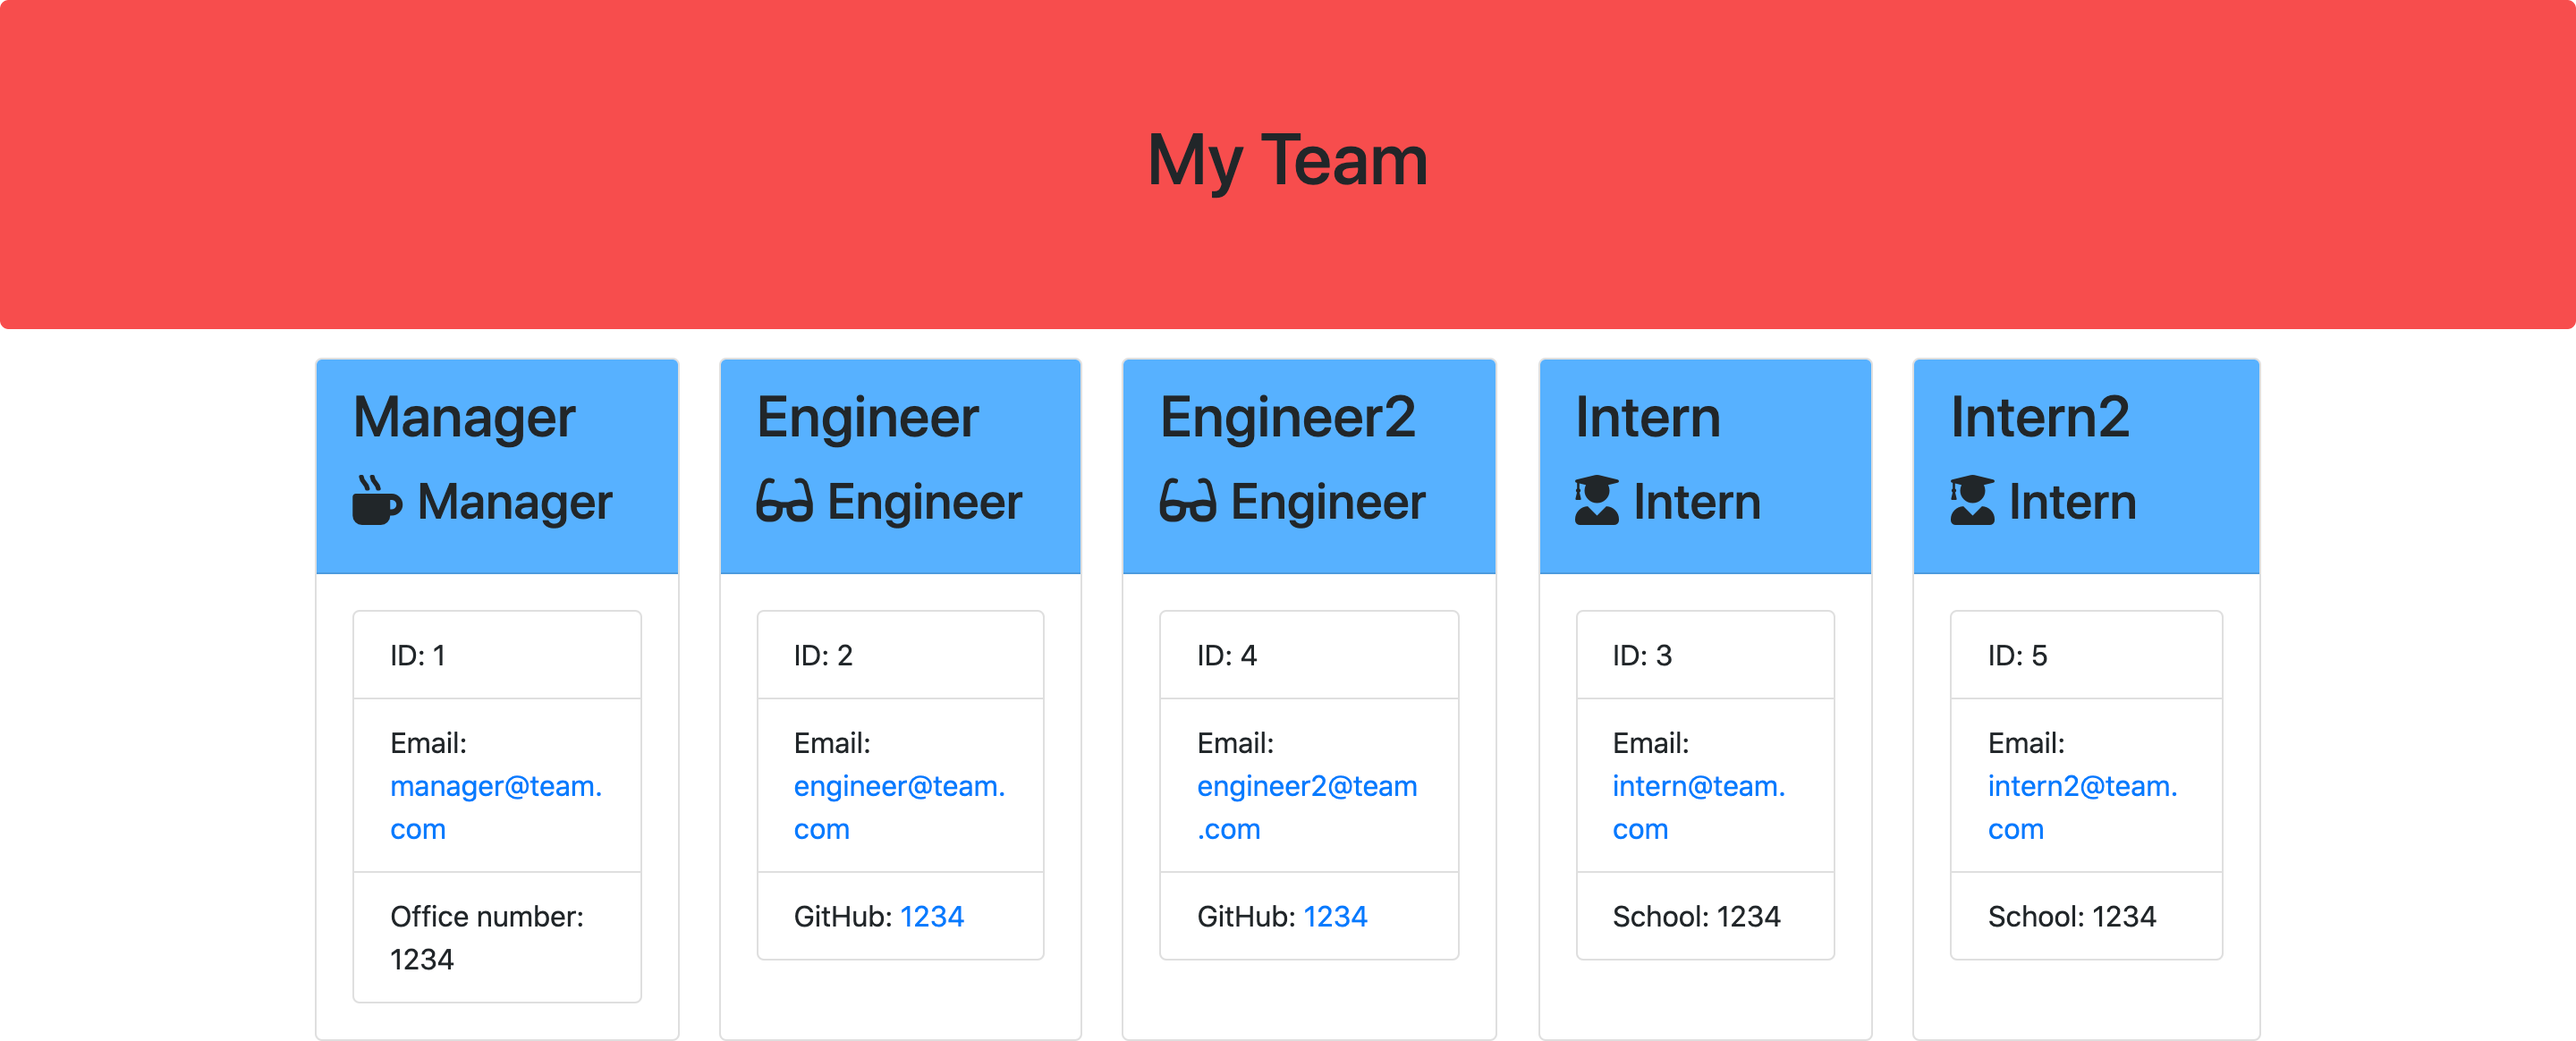
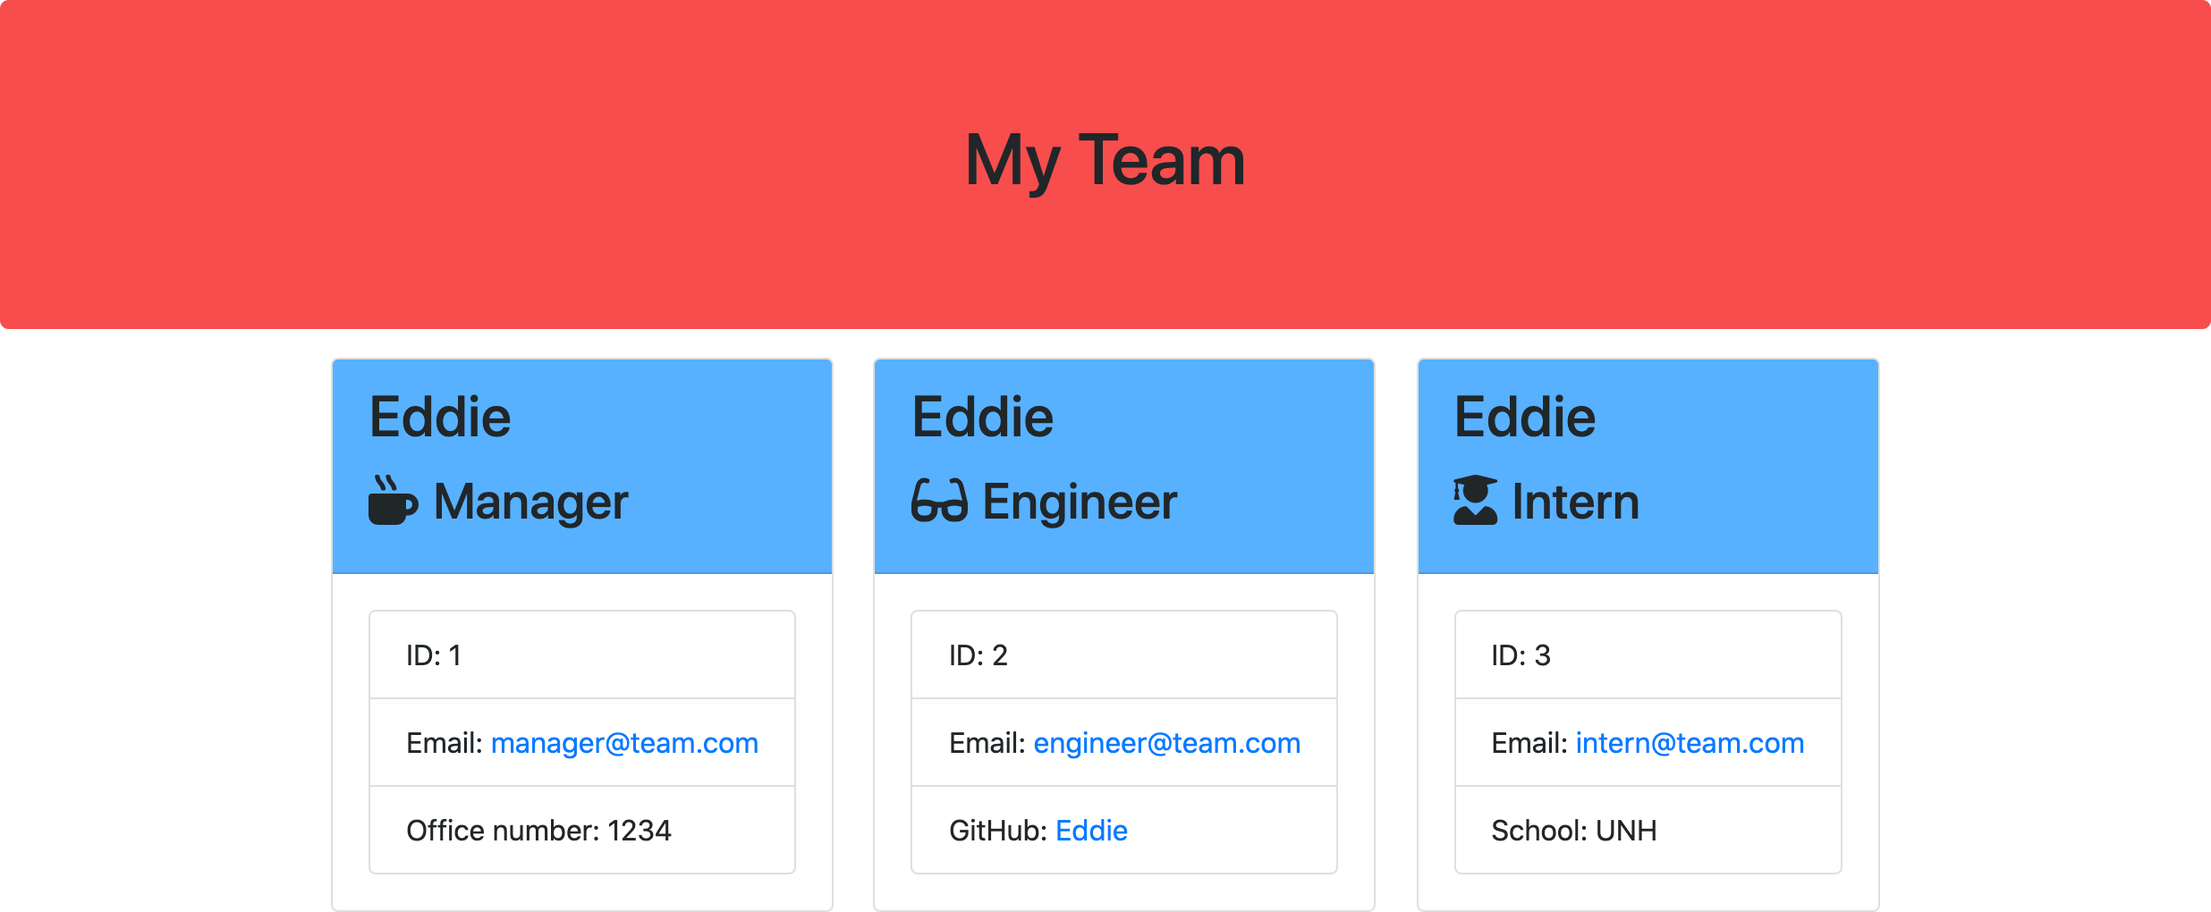
added video demo, adjusted README

diff --git a/develop/output/team.html b/develop/output/team.html
@@ -1,0 +1,71 @@
+<!DOCTYPE html>
+<html lang="en">
+
+<head>
+    <meta charset="UTF-8" />
+    <meta name="viewport" content="width=device-width, initial-scale=1.0" />
+    <meta http-equiv="X-UA-Compatible" content="ie=edge" />
+    <title>My Team</title>
+    <link rel="stylesheet" href="https://stackpath.bootstrapcdn.com/bootstrap/4.3.1/css/bootstrap.min.css"
+        integrity="sha384-ggOyR0iXCbMQv3Xipma34MD+dH/1fQ784/j6cY/iJTQUOhcWr7x9JvoRxT2MZw1T" crossorigin="anonymous">
+    <link rel="stylesheet" href="../style.css">
+    <script src="https://kit.fontawesome.com/c502137733.js"></script>
+</head>
+
+<body>
+    <div class="container-fluid">
+        <div class="row">
+            <div class="col-12 jumbotron mb-3 team-heading red">
+                <h1 class="text-center">My Team</h1>
+            </div>
+        </div>
+    </div>
+    <div class="container">
+        <div class="row">
+            <div class="team-area col-12 d-flex justify-content-center">
+                <div class="card employee-card card-changes">
+    <div class="card-header blue">
+        <h2 class="card-title">Eddie</h2>
+        <h3 class="card-title"><i class="fas fa-mug-hot mr-2"></i>Manager</h3>
+    </div>
+    <div class="card-body">
+        <ul class="list-group">
+            <li class="list-group-item">ID: 1</li>
+            <li class="list-group-item">Email: <a href="mailto:manager@team.com">manager@team.com</a></li>
+            <li class="list-group-item">Office number: 1234</li>
+        </ul>
+    </div>
+</div>
+<div class="card employee-card card-changes">
+    <div class="card-header blue">
+        <h2 class="card-title">Eddie</h2>
+        <h3 class="card-title"><i class="fas fa-glasses mr-2"></i>Engineer</h3>
+    </div>
+    <div class="card-body">
+        <ul class="list-group">
+            <li class="list-group-item">ID: 2</li>
+            <li class="list-group-item">Email: <a href="mailto:engineer@team.com">engineer@team.com</a></li>
+            <li class="list-group-item">GitHub: <a href="https://github.com/Eddie" target="_blank" rel="noopener noreferrer">Eddie</a></li>
+        </ul>
+    </div>
+</div>
+<div class="card employee-card card-changes">
+    <div class="card-header blue">
+        <h2 class="card-title">Eddie</h2>
+        <h3 class="card-title"><i class="fas fa-user-graduate mr-2"></i>Intern</h3>
+    </div>
+    <div class="card-body">
+        <ul class="list-group">
+            <li class="list-group-item">ID: 3</li>
+            <li class="list-group-item">Email: <a href="mailto:intern@team.com">intern@team.com</a></li>
+            <li class="list-group-item">School: UNH</li>
+        </ul>
+    </div>
+</div>
+
+            </div>
+        </div>
+    </div>
+</body>
+
+</html>

diff --git a/README.md b/README.md
@@ -11,7 +11,7 @@ Screenshot:
 ![Team Profile Generator](./develop/assets/team-profile-generator.png)
 
 Video Demo:
-
+https://drive.google.com/file/d/19JsEohHYmh7n6AqmI5kAAUh-7oU4d96L/view 
 
 
 Technologies: HTML5, CSS3, Bootstrap, JavaScript, Node.js, NPM (Jest, Inquirer)
